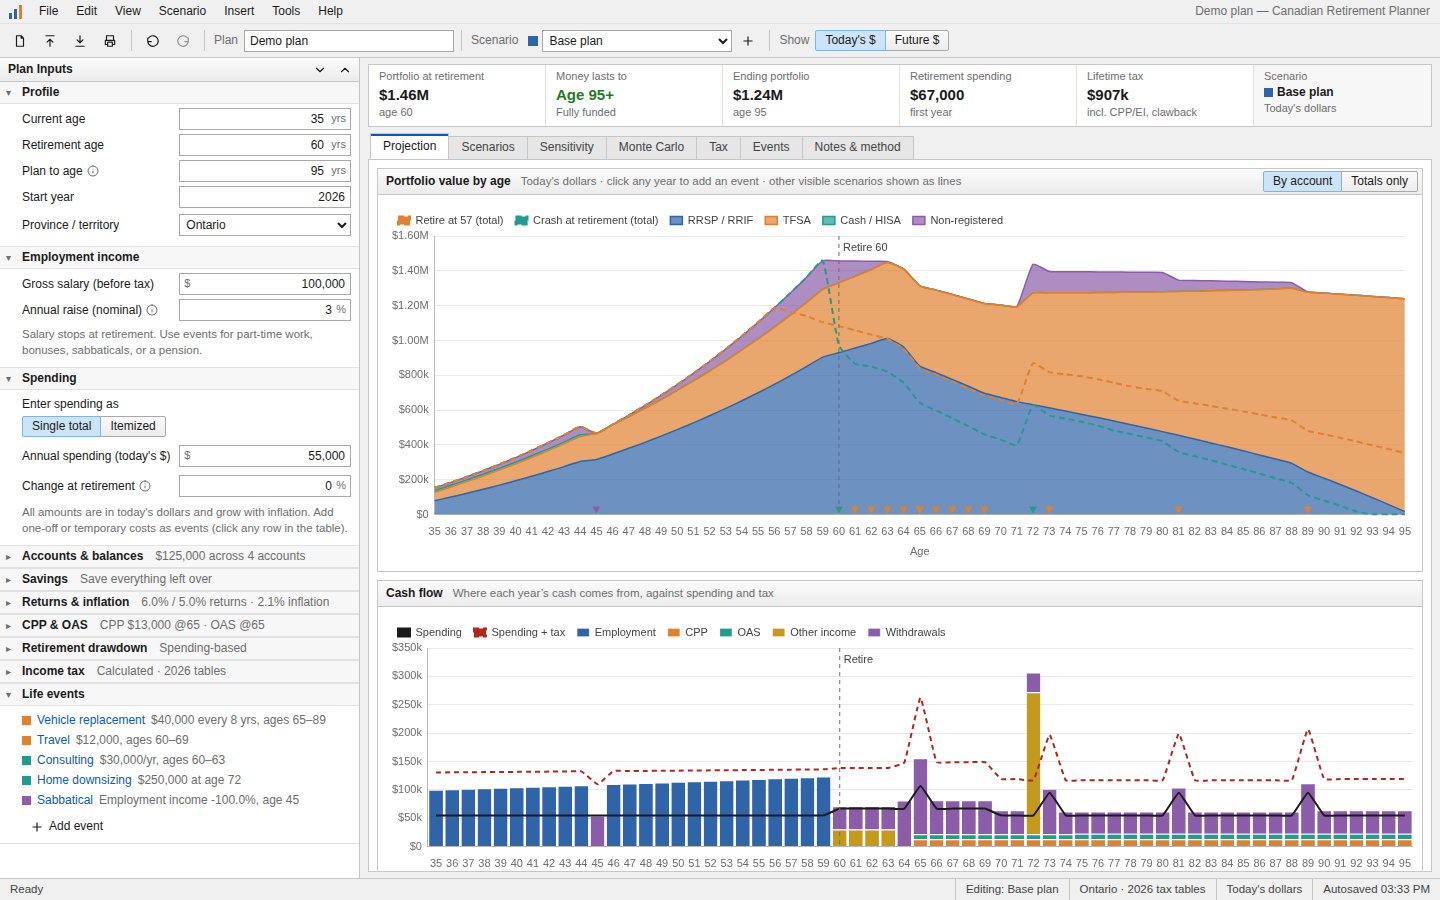
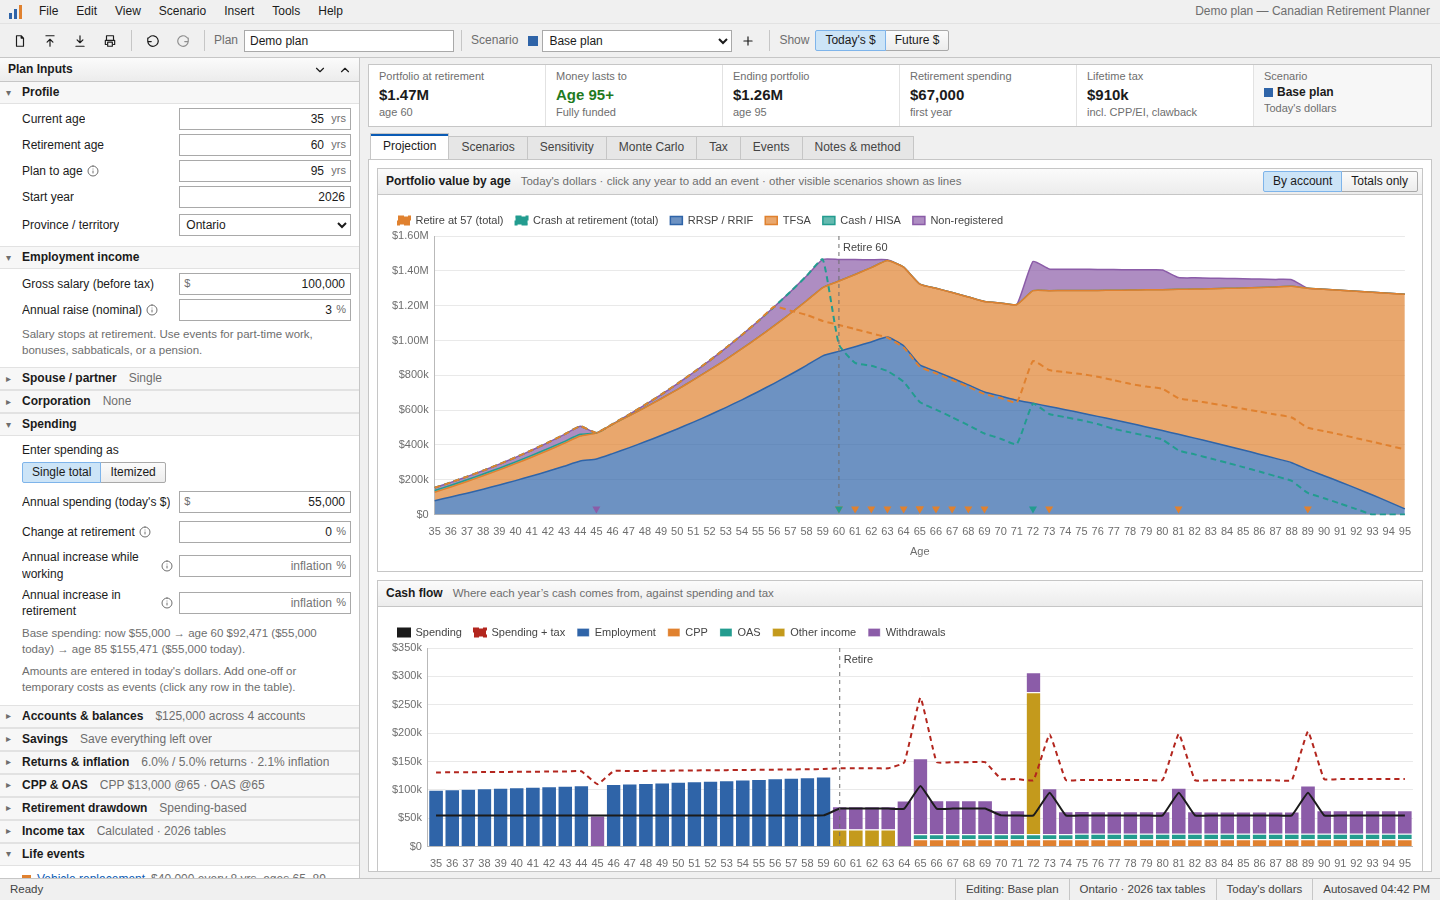
Add corporation screenshots to the README and refresh the others
The screenshot script now captures the Corporation tab (overview with the
Corporation inputs open) and its extraction breakdown from the incorporated
physician example. The existing screenshots are regenerated to show the new
Spouse and Corporation input sections.

Claude-Session: https://claude.ai/code/session_01Vp9myze23snWpF8F5n8cTb

diff --git a/tools/screenshots.js b/tools/screenshots.js
@@ -36,7 +36,7 @@ const OUT = path.join(ROOT, 'docs', 'screenshots') + path.sep;
       s.addScenario('Retire at 57', sc => { sc.overrides['profile.retirementAge'] = 57; });
       s.addScenario('Crash at retirement', sc => RP.scenarioTemplates.get('crashAtRetirement').init(sc, base));
       s.setActive('base');
-      s.ui.collapsed = { accounts: true, savings: true, assumptions: true, benefits: true, retirement: true, tax: true, events: false };
+      s.ui.collapsed = { spouse: true, corporation: true, accounts: true, savings: true, assumptions: true, benefits: true, retirement: true, tax: true, events: false };
       document.querySelectorAll('details.section').forEach(d => { const id = RP.inputSections.list()[[...d.parentNode.children].filter(x => x.tagName === 'DETAILS').indexOf(d)].id; d.open = !s.ui.collapsed[id]; });
     });
     await page.waitForTimeout(500);
@@ -60,6 +60,22 @@ const OUT = path.join(ROOT, 'docs', 'screenshots') + path.sep;
     const row = page.locator('table.grid tbody tr').nth(25);
     await row.scrollIntoViewIfNeeded(); await row.click(); await page.waitForTimeout(400);
     await page.screenshot({ path: OUT + scheme + '-table-menu.png' });
+    // Corporation: the incorporated physician example, with the Corporation inputs open
+    await page.keyboard.press('Escape'); await page.waitForTimeout(200);   // close the table's row menu
+    await page.evaluate(() => {
+      const s = RP.store;
+      s.importJson(JSON.stringify(RP.examples.find(e => e.slug === 'incorporated-physician-toronto').doc));
+      s.setActive('base');
+      s.ui.collapsed = { profile: true, income: true, spouse: true, corporation: false, spending: true, accounts: true, savings: true, assumptions: true, benefits: true, retirement: true, tax: true, events: true };
+      s.saveUi();
+      RP.app.showTab('corporation', { age: 62 });
+    });
+    await page.waitForTimeout(300);
+    await page.evaluate(() => { document.querySelectorAll('details.section').forEach((d, i) => { const id = RP.inputSections.list()[i].id; d.open = id === 'corporation'; }); });
+    await shot('corporation');
+    await page.evaluate(() => { const card = [...document.querySelectorAll('.tab-host section.card')].find(c => /extracted it all/.test(c.textContent)); card.scrollIntoView(); });
+    await page.mouse.move(5, 5); await page.waitForTimeout(400);
+    await page.screenshot({ path: OUT + scheme + '-corporation-extraction.png' });
     console.log(scheme, errors.length ? errors : 'ok');
     await page.close();
   }

diff --git a/README.md b/README.md
@@ -15,6 +15,8 @@ The app follows your system's light/dark setting; you can also switch themes und
 | **Sensitivity**: solvers, tornado chart, two-way grid | [![](docs/screenshots/light-sensitivity.png)](docs/screenshots/light-sensitivity.png) |
 | **Monte Carlo**: probability of success and percentile bands | [![](docs/screenshots/light-montecarlo.png)](docs/screenshots/light-montecarlo.png) |
 | **Tax**: full return-style breakdown for any year | [![](docs/screenshots/light-tax.png)](docs/screenshots/light-tax.png) |
+| **Corporation**: business and investment tax, dividends by type, and value before and after extraction | [![](docs/screenshots/light-corporation.png)](docs/screenshots/light-corporation.png) |
+| **Extraction**: what you keep after corporate and personal tax, with the CDA, GRIP and RDTOH pools | [![](docs/screenshots/light-corporation-extraction.png)](docs/screenshots/light-corporation-extraction.png) |
 | **Events**: timeline of life events across the plan | [![](docs/screenshots/light-events.png)](docs/screenshots/light-events.png) |
 
 ## Features
